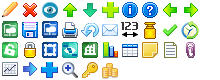
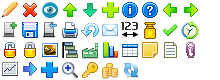
* Ajustes clases, iconos

diff --git a/css/custom2.css b/css/custom2.css
@@ -617,10 +617,10 @@ input.iconView, input.iconViewGantt, input.iconWeight {
 	background-position: -40px -20px;
 }
 .iconRestore {
-	background-position: -60px -20px;
+	background-position: -80px -20px;
 }
 .iconEmail {
-	background-position: -80px -20px;
+	background-position: -100px -20px;
 }
 .iconSendMultiple {
 	background-position: -100px -20px;
